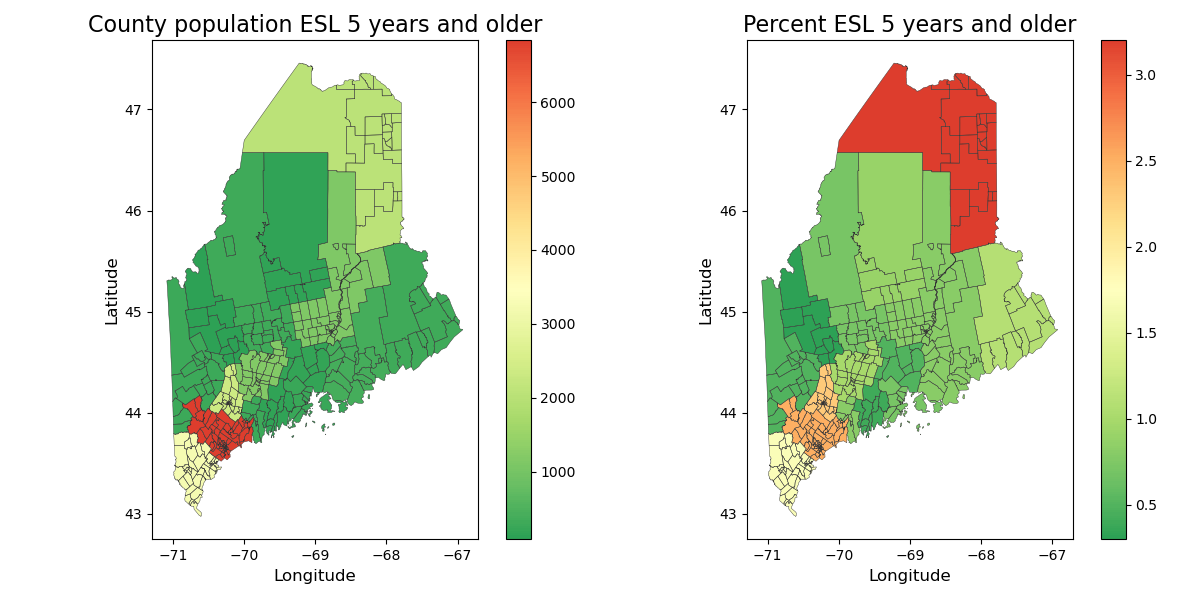
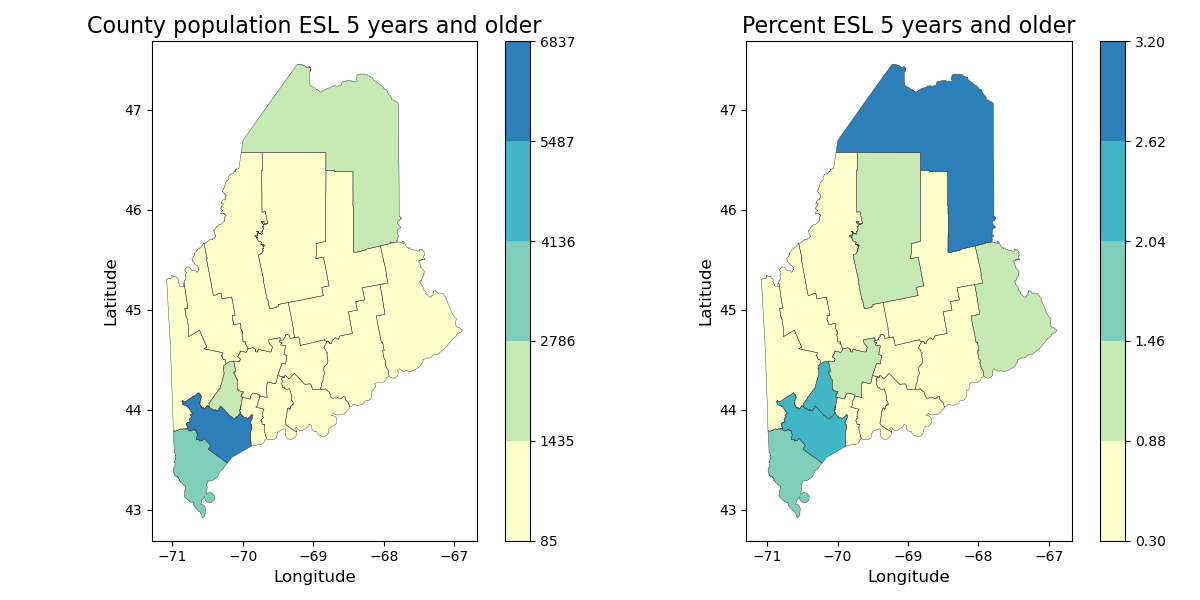
changes to png colors implemented

diff --git a/src/make_county_plots.py b/src/make_county_plots.py
@@ -3,8 +3,7 @@ import geopandas as gpd
 import matplotlib as mpl
 import matplotlib.pyplot as plt
 import pandas as pd
-import numpy as np
-import matplotlib.colors as colors
+import assign_colors
 
 # List of lists of plot column names, titles and fig filenames, 2 pairs of column name / title and one filename.
 plot_list = [
@@ -24,25 +23,46 @@ plot_list = [
 
 def make_plot(gpd_obj, plot_obj):
     # Plotting combined data 
-    cmap = mpl.cm.RdYlGn_r
-    lighter = colors.ListedColormap(cmap(np.linspace(0.125, 0.875, 256)))    
-    fig, ax = plt.subplots(nrows=1, ncols=2, figsize=(12, 6))
-
+    
     # Convert the data in the column with these indices to numeric, fill missing values in columns with 0's
     indices_to_convert = [0, 2]
     for index in indices_to_convert:
         gpd_obj[plot_obj[index]] = pd.to_numeric(gpd_obj[plot_obj[index]], errors='coerce')
         gpd_obj[plot_obj[index]] = gpd_obj[plot_obj[index]].fillna(0)  # Data cleaning
     
+    inner_list = assign_colors.colors[0]
+    color_list = inner_list[:5]
+
+    # Calculate the range for each color
+    min_val = gpd_obj[plot_obj[0]].min()
+    max_val = gpd_obj[plot_obj[0]].max()
+    min_val2 = gpd_obj[plot_obj[2]].min()
+    max_val2 = gpd_obj[plot_obj[2]].max()
+    interval = (max_val - min_val) / len(color_list)
+    interval2 = (max_val2 - min_val2) / len(color_list)
+
+    # Define color bins based on the range and color_list
+    color_bins_pop = [min_val + i * interval for i in range(len(color_list))]
+    color_bins_pop.append(max_val)  # Include the maximum value
+    color_bins_pct = [min_val2 + i * interval2 for i in range(len(color_list))]
+    color_bins_pct.append(max_val2)  # Include the maximum value
+
+    # Plotting combined data
+    cmap_pop = mpl.colors.ListedColormap(color_list)
+    norm_pop = mpl.colors.BoundaryNorm(color_bins_pop, cmap_pop.N)
+    cmap_pct = mpl.colors.ListedColormap(color_list)
+    norm_pct = mpl.colors.BoundaryNorm(color_bins_pct, cmap_pct.N)
+    fig, ax = plt.subplots(nrows=1, ncols=2, figsize=(12, 6))
+
     # Left side of fig plot details
-    gpd_obj.plot(column=plot_obj[0], cmap=lighter, legend=True, figsize=(8,8), ax=ax[0])
+    gpd_obj.plot(column=plot_obj[0], cmap=cmap_pop, norm=norm_pop, legend=True, figsize=(8,8), ax=ax[0])
     gpd_obj.boundary.plot(ax=ax[0], linewidth=0.3, edgecolor='#333')
     ax[0].set_title(plot_obj[1], fontsize=16)
     ax[0].set_xlabel('Longitude', fontsize=12)
     ax[0].set_ylabel('Latitude', fontsize=12)
     
     # Right side of fig plot details
-    gpd_obj.plot(column=plot_obj[2], cmap=lighter, legend=True, figsize=(8,8), ax=ax[1])
+    gpd_obj.plot(column=plot_obj[2], cmap=cmap_pct, norm=norm_pct, legend=True, figsize=(8,8), ax=ax[1])
     gpd_obj.boundary.plot(ax=ax[1], linewidth=0.3, edgecolor='#333')
     ax[1].set_title(plot_obj[3], fontsize=16)
     ax[1].set_xlabel('Longitude', fontsize=12)
@@ -57,7 +77,7 @@ def make_plot(gpd_obj, plot_obj):
     fig.savefig(f'{figs_dir}/{plot_filename}.png')
 
 # Read geojson file into a geopandas object
-gpd_obj = gpd.read_file('docs/data_county.json')
+gpd_obj = gpd.read_file('docs/counties.json')
 
 # Iterate through plot lists and call make_plot to create pngs and save each
 for plot_obj in plot_list:

diff --git a/src/make_plots.py b/src/make_plots.py
@@ -3,8 +3,6 @@ import geopandas as gpd
 import matplotlib as mpl
 import matplotlib.pyplot as plt
 import pandas as pd
-import numpy as np
-import matplotlib.colors as colors
 import assign_colors
 
 # List of lists of plot column names, titles and fig filenames, 2 pairs of column name / title and one filename.
